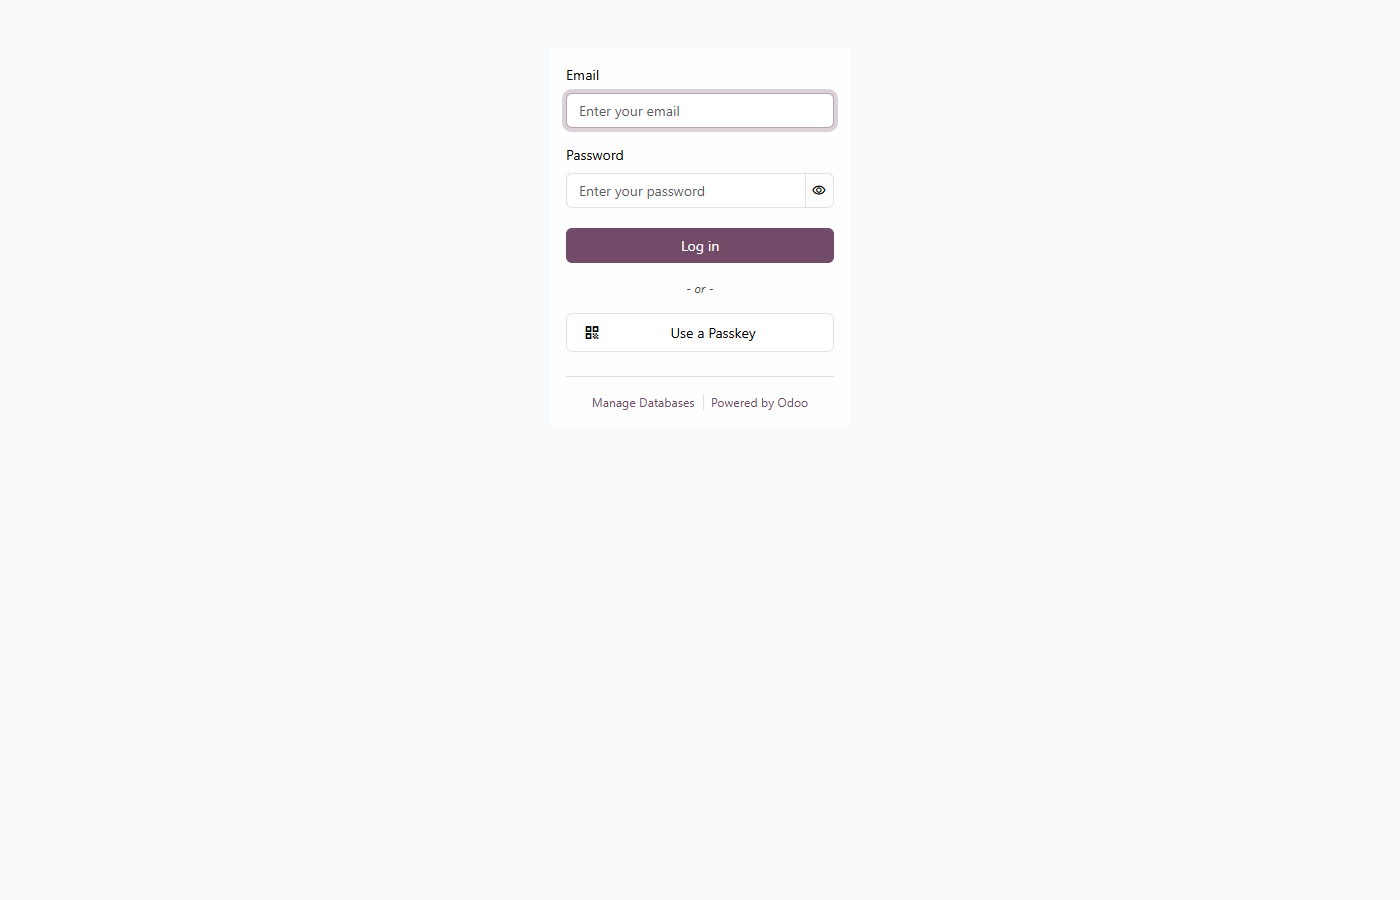
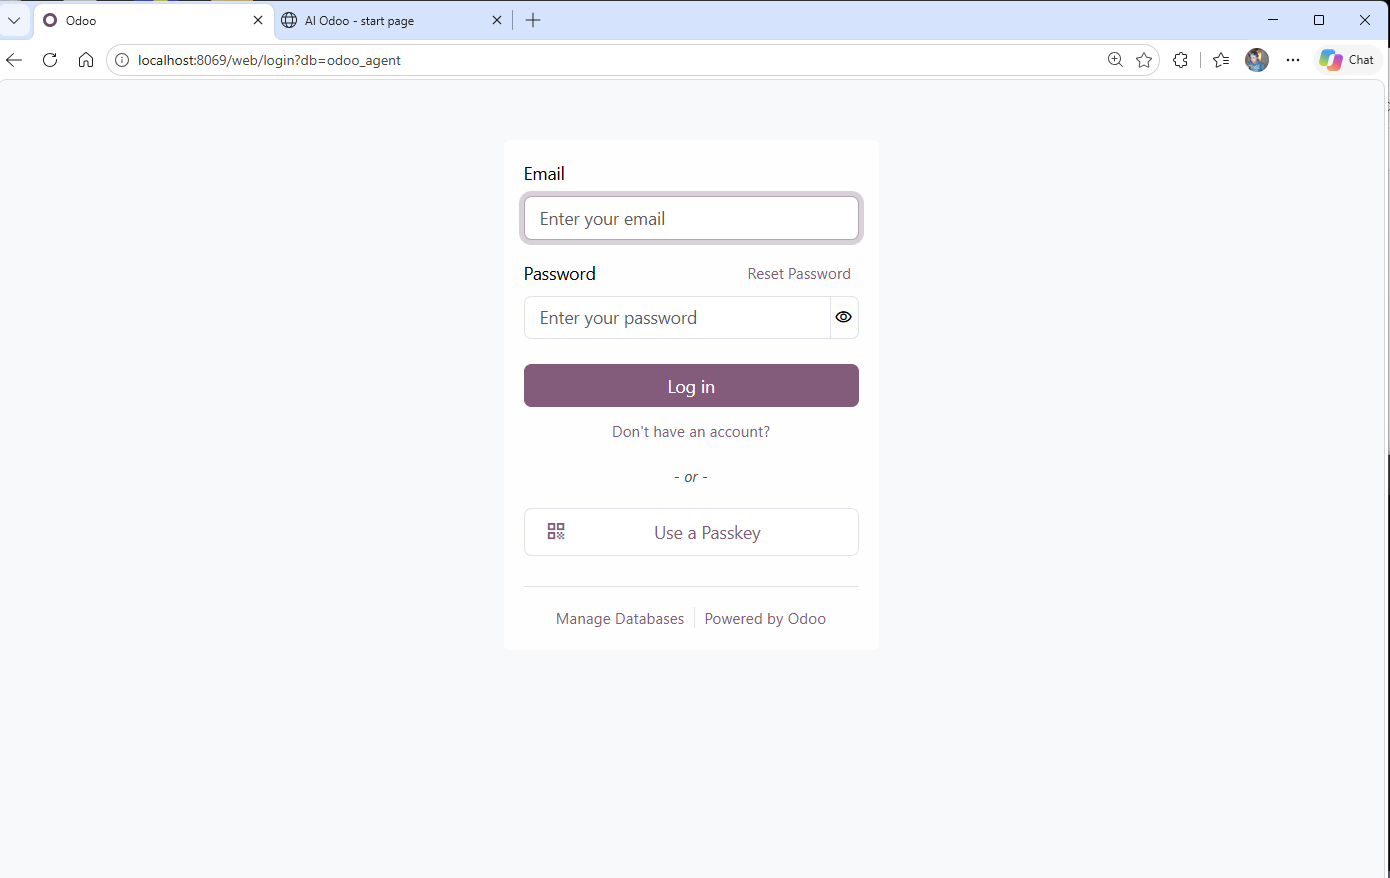
Show the reader what runs on their own machine, and the door into it
A reader followed the book and reached a dead end: after the installation he saw
Odoo's documentation site, closed it, double-clicked the icon and landed on a web
page with a placeholder logo. Nothing told him that Odoo is a program on his own PC,
that its window is a browser tab, that the address is localhost:8069, or that the
black window is the assistant.

The installer now ends on a start page it writes itself, and the chapter on the first
login explains the difference between a local web application and a cloud service,
what localhost means, which of the three windows may be closed, and why the address
carries the database name. Appendix C gains the three wrong pages a reader can land
on and the case of credentials that do not work after a re-run; appendix A documents
the uninstaller and its typed confirmation.

The login screenshot now includes the address bar, because the address was the thing
the book never showed.

diff --git a/books/EN/ch09-the-first-login.md b/books/EN/ch09-the-first-login.md
@@ -1,16 +1,101 @@
 # 9. The First Login
 
-The browser opened on its own, which is the sort of small courtesy that makes a system feel
-finished. The address was `http://localhost:8069`—`localhost` being the machine's way of saying
-*this computer*, and 8069 being the door the ERP listens behind.
+The icon opened two windows, which is one more than most programs open.
 
-The page that appeared was almost empty: a white card, a logo made of two purple shapes, and two
-fields.
+The first was a page in the browser: the start page from the previous chapter, with its one door
+and the account. The second was a black window with a cursor in it and a short question about the
+AI provider. Between them they were the whole system—the page was where the data would be looked
+at, the black window was where it would be asked for.
 
-![The ERP's login page, on the machine that is running it](../../assets/screens/odoo-01-login.png)
+Before Maggie clicked anything she asked the question that stops most people at this point, and it
+is worth answering slowly, because everything else in this book assumes the answer.
+
+"What am I looking at?"
+
+## A program that lives in a browser
+
+Odoo is a **web application**. The phrase covers two different arrangements of the same software,
+and the difference decides who is responsible for it.
+
+In the familiar arrangement—the cloud one—the program runs on a computer belonging to somebody
+else, in a building you have never visited, and your browser is a window onto it. You type an
+address such as `riverton.odoo.com`, the request travels over the internet, and a machine in a data
+centre answers. Nothing is installed on your desk. You rent the program by the month, somebody else
+keeps it running, and in exchange your customer list lives on their disk.
+
+In the arrangement this book uses, the program runs on the computer in front of you. There is no
+building and no monthly invoice: there is a folder on your disk, a database on the same disk, and a
+small program that listens for requests and answers them. The browser is still the screen, but the
+machine behind the screen is yours.
+
+That is why the address looks strange. `localhost` is the name a computer uses for **itself**:
+`localhost:8069` means *the program on this machine, listening at door 8069*. It is not a company,
+it is not a website, and it does not open from anybody else's computer—which is exactly the point.
+The address is the door, and the door is in your office.
+
+Two consequences follow, and both surprise people who have only used cloud software.
+
+The first is that **the program has to be running**. A cloud service is always up because somebody
+is paid to keep it up; your copy is up when the black window, or a hidden background process, is
+running it. If the machine is off, or the program was stopped, the browser shows a page that cannot
+connect—not a fault in your data, just a door with nobody behind it. Double-clicking the icon again
+starts it, which is the answer to most of the questions in this chapter.
+
+The second is that **the address is not optional**. There is no menu entry that opens Odoo directly,
+because Odoo has no window of its own: its window is a browser tab, and a browser tab needs an
+address. This is the small piece of knowledge that the previous edition of this book assumed, and a
+reader's report proved the assumption wrong. A person who has never looked after a server has no
+reason to know that a web application is reached by typing its address, and no way to guess
+`localhost:8069` from a desktop icon that opens something else.
+
+That is the whole reason the start page exists. It is not decoration: it is the address, written
+down, with the account next to it.
+
+## The black window is the assistant
+
+The second window has no title, no menus and no buttons: a black rectangle with a cursor. It is the
+assistant, and it is the only place where a sentence can be typed.
+
+It looks unfinished because it is not a consumer program. It is a *terminal*—the plain text surface
+that programs have used since before the mouse existed—and the assistant speaks there because that
+is where a conversation with a machine is cheapest and clearest: no layout to maintain, no button
+to hunt for, and the answer printed in the order it was produced, wrong turns included.
+
+The three windows have three different owners, and knowing which one may be closed is most of what
+a new user needs:
+
+| Window | What it is | If you close it |
+|---|---|---|
+| The start page | a file on your disk, opened by the browser | nothing happens; the icon opens it again |
+| The browser tab with Odoo | the ERP, served by the program on this machine | nothing happens; the data stays and the program keeps running |
+| The black window | the assistant | the assistant stops. Odoo keeps running, and the icon starts the assistant again |
+
+Maggie left the start page open, because the address was on it, and clicked *Open Odoo*.
+
+## The login page, and the part of the address that matters
+
+The browser went to `http://localhost:8069/web/login?db=odoo_agent`, and the page was almost empty:
+a white card, a logo made of two purple shapes, and two fields.
+
+![The ERP's login page. The address bar is part of the picture: this is a program on this computer, at the door 8069](../../assets/screens/odoo-01-login.png)
+
+The `db` part of the address names the database. `odoo_agent` is the one the installer created, and
+naming it means the browser cannot land on a different one by accident—a machine can hold several
+databases, a test copy and a real one, and without the name Odoo asks which you mean. It is not a
+setting to remember: the start page and the icon write it for you.
+
+One thing on this page is a trap, and it is worth naming before it is clicked. At the bottom, in
+small grey letters, is a link called *Manage Databases*. It opens Odoo's own database manager, which
+can create, duplicate, back up and **delete** databases, and it asks for a master password that has
+nothing to do with your login. The installer has already created the database; the manager is a tool
+for an administrator who knows why he opened it. Nothing in this book needs it.
 
 Maggie typed the administrator address the installer had printed, and the password, and pressed
 Enter.
+
+If the page in your browser is not this one, it is one of three things, and none of them means the
+installation failed: a page about Odoo on the vendor's website, a website with a logo you did not
+choose, or a list of databases. Appendix C takes them one at a time.
 
 Nothing dramatic happened. That is the first thing worth saying about the ERP: it does not greet
 you. It does not congratulate you. It opens a page with a menu across the top and a few coloured

diff --git a/books/EN/appendix-a-installing-the-stack.md b/books/EN/appendix-a-installing-the-stack.md
@@ -76,20 +76,31 @@ again. It will find it and verify its size before using it.
 At the end the window prints something like this. Write it down, or photograph the screen.
 
 ```
-Odoo:          http://localhost:8069
-Administrator: admin@yourcompany.example
-Password:      (the one the installer generated, or the one you gave it)
-Database:      odoo on port 5433
-Assistant:     AI Odoo (desktop icon)
+  Odoo (the ERP, in the browser):  http://localhost:8069
+  Login: admin@yourcompany.example
+  Password: (the one the installer generated, or the one you gave it)
+  Assistant (talk to it here):  http://localhost:5290/OfficeManager
 ```
 
-The browser opens the ERP's first-steps page. That page is the beginning of the configuration, not
-the end of the installation.
+If the administrator account already existed from an earlier run, the installer prints the login
+that really is in the database and says the password is unchanged, rather than inventing a new one
+that would not work.
 
-## Step 7 — First start of the assistant
+The browser opens the **start page**: a file on this computer with the address, the account and two
+links. That page is the beginning of the configuration, not the end of the installation.
 
-Double-click the **AI Odoo** icon on the desktop. Two things happen: the ERP starts (if it was not
-running) and the assistant opens in its own terminal window. The browser opens the ERP page.
+## Step 7 — The icon, and the three windows
+
+Double-click the **AI Odoo** icon on the desktop. Three things happen:
+
+1. the ERP starts, if it was not running;
+2. the start page opens in the browser;
+3. the assistant opens in its own black window.
+
+*Open Odoo* on the start page goes to the login page at
+`http://localhost:8069/web/login?db=odoo_agent`. The assistant is the black window, and that is
+where you type; it should stay open while you work, because closing it stops the assistant, while
+Odoo keeps running.
 
 On its first start the assistant asks for the AI provider: choose the service, paste the key, and
 it fetches that service's list of models. Nothing else is needed—the address of the ERP and the
@@ -99,8 +110,10 @@ access key were written by the installer.
 
 Three checks, in order, and each one tells you which of the three machines is unhappy if it fails.
 
-1. **The ERP.** Open `http://localhost:8069` in a browser and log in. If the page does not load,
-   the ERP or the database is not running; the file `odoo.log` in the installation folder says why.
+1. **The ERP.** Click *Open Odoo* on the start page, or open
+   `http://localhost:8069/web/login?db=odoo_agent` in a browser, and log in. If the page does not
+   load, the ERP or the database is not running; the file `odoo.log` in the installation folder says
+   why.
 2. **The connector.** In the assistant, ask: *check the connection to Odoo and tell me which version
    is running.* A version number means the key and the address are right.
 3. **The model.** Ask: *how many customers do we have?* A number means the assistant can read the
@@ -110,14 +123,24 @@ If all three answer, the installation is complete.
 
 ## Uninstalling
 
-The stack lives in one folder, `%LOCALAPPDATA%\odoo-tool-stack`, plus the database service and the
-user data in `%LOCALAPPDATA%\agent`. To remove it:
+Two scripts undo the installation, and they are the supported way: `uninstall.bat` on Windows and
+`uninstall.sh` on Linux. They sit next to the installer in the same release, and each can be
+downloaded and run on its own.
 
-1. Stop the ERP and the assistant (close their windows).
-2. Uninstall PostgreSQL from *Apps & features* (or run its uninstaller), and delete the folder it
-   leaves in `C:\Program Files\PostgreSQL` if anything remains.
-3. Delete `%LOCALAPPDATA%\odoo-tool-stack` and `%LOCALAPPDATA%\agent`.
-4. Delete the **AI Odoo** shortcut from the desktop and from the Start menu.
+What they remove:
 
-That is the whole removal. Nothing is registered anywhere else, which is one of the advantages of
-a system that runs on your own machine.
+- the Odoo database, with every customer, product, order, invoice and stock move in it;
+- the installation folder (`%LOCALAPPDATA%\odoo-tool-stack`, or `~/odoo-tool-stack`);
+- the **AI Odoo** shortcuts and the firewall rule.
+
+They ask twice, and the second question is not a formality. The first is a yes/no that lists what
+disappears. The second requires the phrase **DESTROY ALL**, typed in capital letters. If the phrase
+is not exact, nothing is touched—not one file, not one row. The deletion is irreversible and the
+uninstaller makes no backup, so a copy of the database taken beforehand is the only way back.
+
+AgentBridge is asked about separately, because it can host other tools and holds its own settings
+and API keys: answering *no* keeps it and removes only the Odoo half.
+
+PostgreSQL is left installed. It is a service other programs may share, and it is removed from
+*Apps & features* like any other program, once nothing else needs it. The `odoo` database role stays
+behind and is harmless: a future installation reuses it.

diff --git a/books/EN/ch07-one-file-and-a-double-click.md b/books/EN/ch07-one-file-and-a-double-click.md
@@ -166,18 +166,23 @@ Then the window printed a summary. It is worth quoting, because it is the only p
 installation that a user must keep.
 
 ```
-==> Done
+==> Done.
+  HOW TO START:
+    Double-click the 'AI Odoo' icon on the Desktop (or in the Start Menu).
+    A page opens in the browser: it says what is running here and has the two links.
+      'Open Odoo'             the ERP, where the data is. Log in with the account below.
+    A black window also opens: that is the assistant. Type there, for example
+    'list the customers', and leave it open while you work.
 
-Odoo:          http://localhost:8069
-Administrator: admin@riverton.example
-Password:      OdooDemo2026
-Database:      odoo on port 5433
-Assistant:     AI Odoo (desktop icon)
+  Odoo (the ERP, in the browser):  http://localhost:8069
+  Login: admin@riverton.example
+  Password: OdooDemo2026
+  Assistant (talk to it here):  http://localhost:5290/OfficeManager
 ```
 
 Three of those lines are the ones Maggie wrote on the sheet of paper and put in the drawer with the
-napkin: the address, the user, the password. The fourth is the port, which she did not need to
-know, and the fifth is the icon she would double-click every morning for the next year.
+napkin: the address, the user, the password. The fourth is the chat's address, which she did not
+need to know, and the fifth is the icon she would double-click every morning for the next year.
 
 ## What the installer will not do
 
@@ -207,16 +212,31 @@ is about.
 ---
 
 There is a small piece of theatre at the end which is easy to miss and which tells you something
-about the people who wrote the installer. Having finished, it opens the ERP's first-steps page in
-the browser. Not the assistant, not a marketing page: the page where a new company is asked what
-currency it uses, what its chart of accounts should look like, and what it sells.
+about the people who wrote the installer. Having finished, it opens a page in the browser that the
+installer wrote itself: a file on this computer, not a website, with one large button and the
+account it just created.
+
+![The start page: what is running on this computer, and the door into it](../../assets/screens/start-01-start-page.png)
+
+It is not the assistant, and it is not a marketing page. It is the one thing a person needs at that
+moment: a plain statement of what is now running on this machine, one door into the ERP, and the
+account that opens it. The assistant is not on that page and does not need to be: it is the black
+window the same icon opens, and that is where a request is typed.
+
+An earlier version of this installer ended by opening the vendor's documentation site, and a reader
+of the previous edition described what happened next: he saw a page about Odoo, in the language of
+his browser, closed it because it had nothing to do with his installation, double-clicked the icon,
+landed on a web page with a placeholder logo, and concluded that the whole thing had failed. Every
+word on that documentation page was true, and none of it was about *his* computer. The page in the
+picture is.
 
 The message is: you are not finished, you have just arrived. The next hour is configuration, and
 it is the hour that decides whether the system becomes the truth or becomes another abandoned
 program. The installer cannot do that part for you, and it does not pretend to.
 
-Maggie sat in front of the first-steps page for a long moment. Then she called Doreen, because the
-chart of accounts was going to be an argument, and it was better to have the argument with the
-person who had been keeping the books for thirty-one years than to have it with a consultant.
+Maggie read the page twice, wrote the login and the password on the sheet of paper, and clicked
+*Open Odoo*. Then she called Doreen, because the chart of accounts was going to be an argument, and
+it was better to have the argument with the person who had been keeping the books for thirty-one
+years than to have it with a consultant.
 
 That conversation is the next chapter.

diff --git a/books/EN/appendix-c-when-something-goes-wrong.md b/books/EN/appendix-c-when-something-goes-wrong.md
@@ -66,6 +66,62 @@ again.
 
 ---
 
+## The page that opens is not the login page
+
+**What you see.** You double-click **AI Odoo**, or open `http://localhost:8069`, and the browser
+shows something that is not the white login card: a page about Odoo, a website with a placeholder
+logo, or a list of databases.
+
+**What it means.** The address you asked for is not the address of your ERP, or it is an address
+that several things can answer. There are exactly three cases, and each has its own cause.
+
+*It is Odoo's own documentation, on odoo.com, in the language of your browser.* That is a page about
+the product, not about your machine: nothing on it is your data and it is not part of the
+installation. It is what an earlier version of the installer opened at the end, and it is still
+printed at the end as a link for later reading. Close it and open the start page from the icon.
+
+*It is a website with a logo you did not choose, a menu and a "Sign in" link in a corner.* That is
+Odoo's **website** application: a module that serves a public site at the root address. Once it is
+installed, `http://localhost:8069` shows the site instead of the login page, and the ERP hides
+behind the small sign-in link. Nothing is broken and no data is lost. The login page has its own
+address, and it always works: `http://localhost:8069/web/login?db=odoo_agent`. The start page and
+the icon use that address for this reason.
+
+*It is a list of databases, or a form asking which database you mean.* The machine holds more than
+one Odoo database—a test copy, an older installation—and the address did not name one. Add
+`?db=odoo_agent` to the address, or use the start page, which names it.
+
+---
+
+## The login and password printed at the end do not work
+
+**What you see.** The credentials in the installer's summary are rejected, and the login page says
+the username or password is wrong.
+
+**What it means.** On a first installation the installer creates the administrator and prints what
+it created, so the two agree. On a second run the account already exists, and it keeps the login and
+password it had: printing a newly invented password there would be printing a password that was
+never applied. The installer now reads the account back from the database and says either the
+password it set, or that the password is unchanged since the first installation.
+
+**What to do.** If the summary says *unchanged*, use the password from the first installation. If it
+is lost, set a new one deliberately: run the installer again with `ADMIN_PASS` set in the
+environment, and it will apply and print that password. Nothing else in the database is touched.
+
+---
+
+## The black window disappeared
+
+**What you see.** Odoo still answers in the browser, but there is no window to type in.
+
+**What it means.** The black window *is* the assistant: closing it stops the assistant, and only the
+assistant. The ERP runs as a separate program, which is why the browser keeps working.
+
+**What to do.** Double-click **AI Odoo** again. It starts what is missing and does not start a
+second copy of what is already running.
+
+---
+
 ## The ERP does not answer on its port
 
 **What you see.** After the installation, the browser cannot reach the address printed at the end

diff --git a/books/EN/appendix-b-glossary.md b/books/EN/appendix-b-glossary.md
@@ -45,6 +45,10 @@ ever see it in a log file, where it looks like a paragraph of punctuation.
 plausible text in response to an instruction. It is good at language and unreliable at facts unless
 it is *grounded*—that is, unless it is made to look the facts up instead of remembering them.
 
+**Localhost.** The name a computer uses for itself. `localhost:8069` means *the program on this
+machine listening at door 8069*, and it opens only from that machine. It is the opposite of a
+company's domain name, which resolves to somebody else's computer.
+
 **MCP.** Model Context Protocol. An open standard, published by Anthropic in November 2024, that
 lets a program describe the tools it offers to an assistant in a uniform way. It is why a tool
 written for one assistant can be used by another.
@@ -92,6 +96,11 @@ makes a database trustworthy: there is no state in which half an invoice exists.
 **Variant.** A version of a product that differs in one attribute—size, colour, voltage. One
 product with twelve variants is not twelve products, and modelling it correctly is the difference
 between a useful report and a useless one.
+
+**Web application.** A program whose screens are pages in a browser. It can run on somebody else's
+computer—the cloud arrangement, reached through an internet address and paid for monthly—or on your
+own, as in this book: the program and its database sit on your disk and the browser connects to
+them at `localhost`. The two look identical on screen and differ in who keeps the machine running.
 
 **Web interface (or web UI).** The screens you see in a browser. Odoo's web interface is where you
 configure the company, look at records, and print documents; the assistant is a second way to reach

diff --git a/books/EN/ch08-what-happened-while-the-bar-moved.md b/books/EN/ch08-what-happened-while-the-bar-moved.md
@@ -101,13 +101,13 @@ will still show what it did.
 
 ## The assistant
 
-The assistant arrives as a public release: an executable, a folder of tools, and the desktop chat
-client. The installer unpacks it, installs the connector into it, and creates the **AI Odoo**
-shortcut.
+The assistant arrives as a public release: an executable, a folder of tools, and a browser chat.
+The installer unpacks it, installs the connector into it, and creates the **AI Odoo** shortcut.
 
 The shortcut is the piece that makes the system feel like a product rather than a science project.
-Double-clicking it starts the ERP if it is not running, opens the ERP page in the browser, and
-opens the assistant in a terminal window. One icon, three windows, and the work can begin.
+Double-clicking it starts the ERP if it is not running, opens the start page in the browser, and
+opens the assistant in a terminal window. One icon, and then two windows: the page that says where
+everything is, and the black window where you type. The work can begin.
 
 The assistant's own configuration—which AI provider, which model, which key—is asked for on its
 first start, by the assistant itself, in the same terminal window where you will type your
